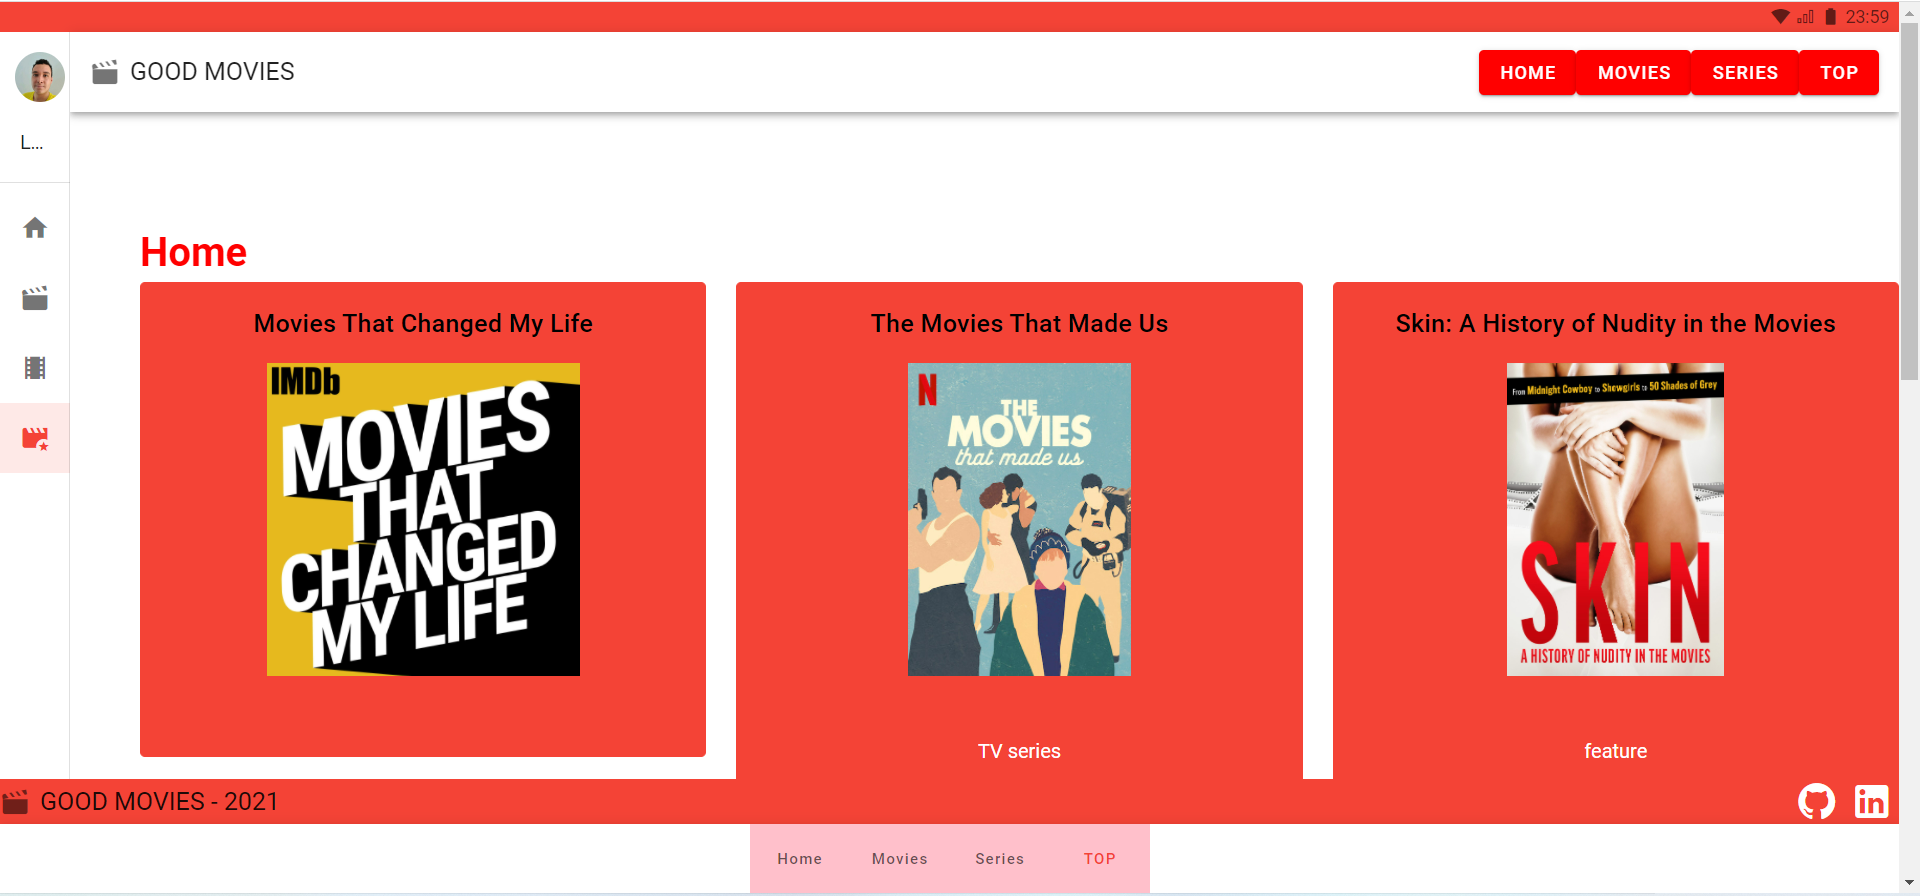
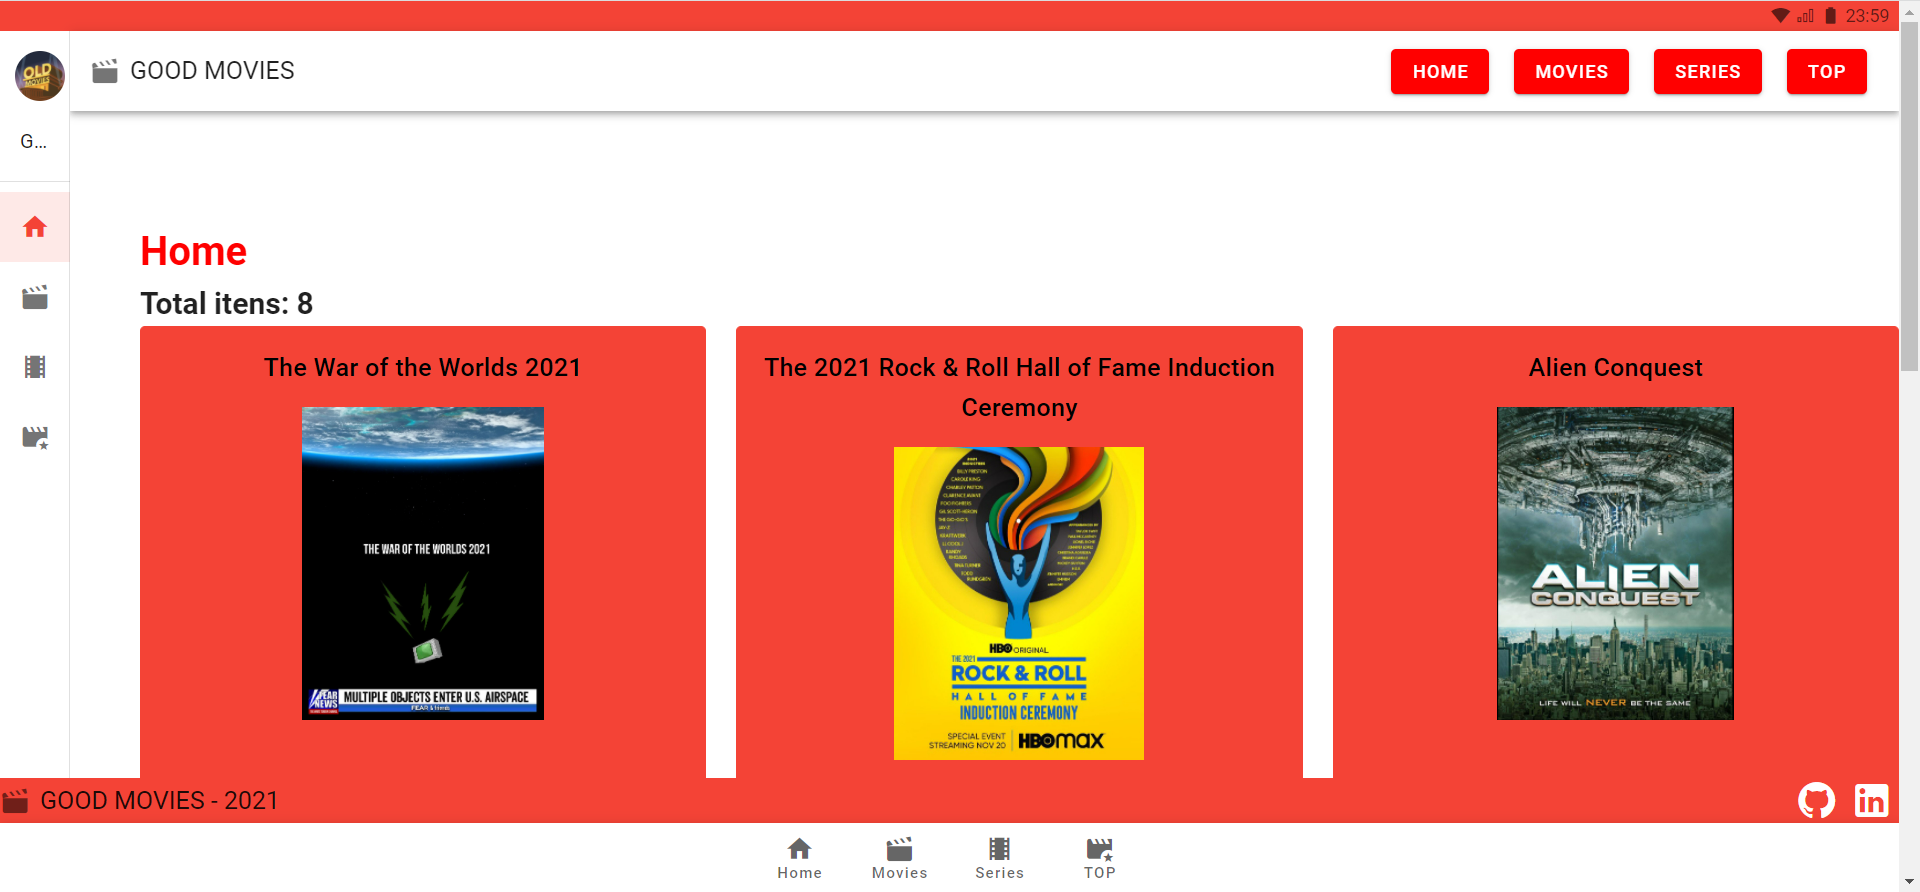
updating the code

diff --git a/src/components/Bottom.vue b/src/components/Bottom.vue
@@ -2,14 +2,15 @@
     
   <v-bottom-navigation
       app
-      background-color=salmon
-      color=#32CD32
-      v-model="selectedBottombarItem"
+      background-color=white
+      color=red
+      v-model="value"
   >
             <v-btn v-for="item in draweritens" :key="item.title" @click="$router.push(item.url)"
-            style = "background-color:pink" 
-            class="red--text">
+            style = "background-color:white" 
+            class="black--text">
               {{item.title}}
+              <v-icon >{{item.icon}}</v-icon>
             </v-btn>
   </v-bottom-navigation>
 
@@ -28,18 +29,22 @@ export default {
       {
         title:"Home",
         url:"/",
+        icon:"mdi-home",
       },
       {
         title:"Movies",
         url:"/Movies",
+        icon:"mdi-movie-open",
       },
       {
         title:"Series",
         url:"/Series",
+        icon:"mdi-filmstrip",
       },
       {
         title:"TOP",
         url:"/TOP",
+        icon:"mdi-movie-star",
       },
     ],
 

diff --git a/src/store/index.js b/src/store/index.js
@@ -8,11 +8,16 @@ Vue.use(Vuex);
 
 //to handle state
 const state = {
+  parameter:'movies',
   posts: []
 }
 
 //to handle state
-const getters = {}
+const getters = {
+  postsCount: state => {
+    return state.posts.d.length
+  }
+}
 
 //to handle actions
 const actions = {
@@ -20,15 +25,14 @@ const actions = {
     var options = {
       method: 'GET',
       url: 'https://imdb8.p.rapidapi.com/auto-complete',
-      params: { q: 'movies' },
+      params: { q: state.parameter },
       headers: { 'x-rapidapi-host': 'imdb8.p.rapidapi.com', 'x-rapidapi-key': '8a228d67a9msh2730af094091770p154764jsn567d96812284' }
     };
 
     axios.request(options).then(function (response) {
-      console.log(response.data)
       commit('SET_POSTS', response.data)
     }).catch(function () {
-      console.log("DEU RUIM !!!!!!!!!!!!!!!!!!!!!!!!");
+      console.log("Erro");
     });
   }
 }

diff --git a/src/views/Home.vue b/src/views/Home.vue
@@ -1,7 +1,8 @@
 <template>
-  <v-row>
+  <v-row >
     <v-col cols="12">
       <h1 style="color: red">Home</h1>
+      <h2 >Total itens: {{countt}}</h2>
       <v-row>
         <v-col v-for="movie in posts.d" :key="movie.id" cols="4">
           <Modelcard :movie="movie"></Modelcard>
@@ -15,6 +16,11 @@
 import Modelcard from "../components/Modelcard.vue";
 
 export default {
+  data(){
+    return{
+      countt:0
+    }
+  },
   name: "Home",
   components: {
     Modelcard,
@@ -23,9 +29,16 @@ export default {
     posts() {
       return this.$store.state.posts;
     },
+    postsCount() {
+      return this.$store.getters.postsCount;
+    },
   },
   mounted() {
+    this.$store.state.parameter = "2021"
     this.$store.dispatch("getPosts");
+    this.countt = this.postsCount
   },
+  
+    
 };
 </script>

diff --git a/src/views/Movies.vue b/src/views/Movies.vue
@@ -2,6 +2,7 @@
   <v-row>
     <v-col cols="12">
       <h1 style="color: red">Movies</h1>
+      <h2 >Total itens: {{countt}}</h2>
       <v-row>
         <v-col v-for="movie in posts.d" :key="movie.id" cols="4">
           <Modelcard :movie="movie"></Modelcard>
@@ -15,6 +16,11 @@
 import Modelcard from "../components/Modelcard.vue";
 
 export default {
+  data(){
+    return{
+      countt:0
+    }
+  },
   name: "Home",
   components: {
     Modelcard,
@@ -23,9 +29,14 @@ export default {
     posts() {
       return this.$store.state.posts;
     },
+    postsCount() {
+      return this.$store.getters.postsCount;
+    },
   },
   mounted() {
+    this.$store.state.parameter = "movies"
     this.$store.dispatch("getPosts");
+    this.countt = this.postsCount
   },
 };
 </script>

diff --git a/src/views/Series.vue b/src/views/Series.vue
@@ -2,6 +2,7 @@
   <v-row>
     <v-col cols="12">
       <h1 style="color: red">Series</h1>
+      <h2 >Total itens: {{countt}}</h2>
       <v-row>
         <v-col v-for="movie in posts.d" :key="movie.id" cols="4">
           <Modelcard :movie="movie"></Modelcard>
@@ -15,6 +16,11 @@
 import Modelcard from "../components/Modelcard.vue";
 
 export default {
+  data(){
+    return{
+      countt:0
+    }
+  },
   name: "Home",
   components: {
     Modelcard,
@@ -23,9 +29,14 @@ export default {
     posts() {
       return this.$store.state.posts;
     },
+    postsCount() {
+      return this.$store.getters.postsCount;
+    },
   },
   mounted() {
+    this.$store.state.parameter = "series"
     this.$store.dispatch("getPosts");
+    this.countt = this.postsCount
   },
 };
 </script>

diff --git a/src/views/TOP.vue b/src/views/TOP.vue
@@ -2,6 +2,7 @@
   <v-row>
     <v-col cols="12">
       <h1 style="color: gold">TOP</h1>
+      <h2 >Total itens: {{countt}}</h2>
       <v-row>
         <v-col v-for="movie in posts.d" :key="movie.id" cols="4">
           <Modelcard :movie="movie"></Modelcard>
@@ -15,6 +16,11 @@
 import Modelcard from "../components/Modelcard.vue";
 
 export default {
+  data(){
+    return{
+      countt:0
+    }
+  },
   name: "Home",
   components: {
     Modelcard,
@@ -23,9 +29,14 @@ export default {
     posts() {
       return this.$store.state.posts;
     },
+    postsCount() {
+      return this.$store.getters.postsCount;
+    },
   },
   mounted() {
+    this.$store.state.parameter = "top"
     this.$store.dispatch("getPosts");
+    this.countt = this.postsCount
   },
 };
 </script>

diff --git a/src/components/Drawer.vue b/src/components/Drawer.vue
@@ -9,14 +9,14 @@
         <v-list>
           <v-list-item class="px-3">
             <v-list-item-avatar>
-              <v-img src="https://media-exp1.licdn.com/dms/image/C4D03AQGuK-gMADwhyw/profile-displayphoto-shrink_400_400/0/1613523800434?e=1643846400&v=beta&t=udSTbvgHBy-uGR3Uq2y-q3Ewb5VLK2sB4U_LfqaGQ3w"></v-img>
+              <v-img src="https://images-na.ssl-images-amazon.com/images/I/71aH-U9+EfL.png"></v-img>
             </v-list-item-avatar>
           </v-list-item>
 
           <v-list-item link>
             <v-list-item-content>
               <v-list-item-title class="text-h12">
-                Lucas Santos
+                Good Movies
               </v-list-item-title>
             </v-list-item-content>
           </v-list-item>

diff --git a/src/components/Appbar.vue b/src/components/Appbar.vue
@@ -9,7 +9,7 @@
       <v-toolbar-title>GOOD MOVIES</v-toolbar-title>
 
       <v-spacer></v-spacer>
-      <div v-for="item in draweritens" :key="item.title" >
+      <div class="buttons" v-for="item in draweritens" :key="item.title" >
             <v-btn @click="$router.push(item.url)"
             style = "background-color:red" 
             class="white--text">
@@ -50,3 +50,9 @@ export default {
   }),
 };
 </script>
+
+<style scoped>
+.buttons{
+  margin: 0 10px;
+}
+</style>

diff --git a/src/components/Modelcard.vue b/src/components/Modelcard.vue
@@ -9,12 +9,6 @@
         :src=movie.i.imageUrl
         height="250px"></v-img>
         <br/>
-        <!-- <div>
-            <v-btn style = "background-color:#008000"
-            class="white--text"
-            :href=food.link
-            target="_blank"> Link da receita </v-btn>
-        </div> -->
         <br/>
         <p
         class="texto"
